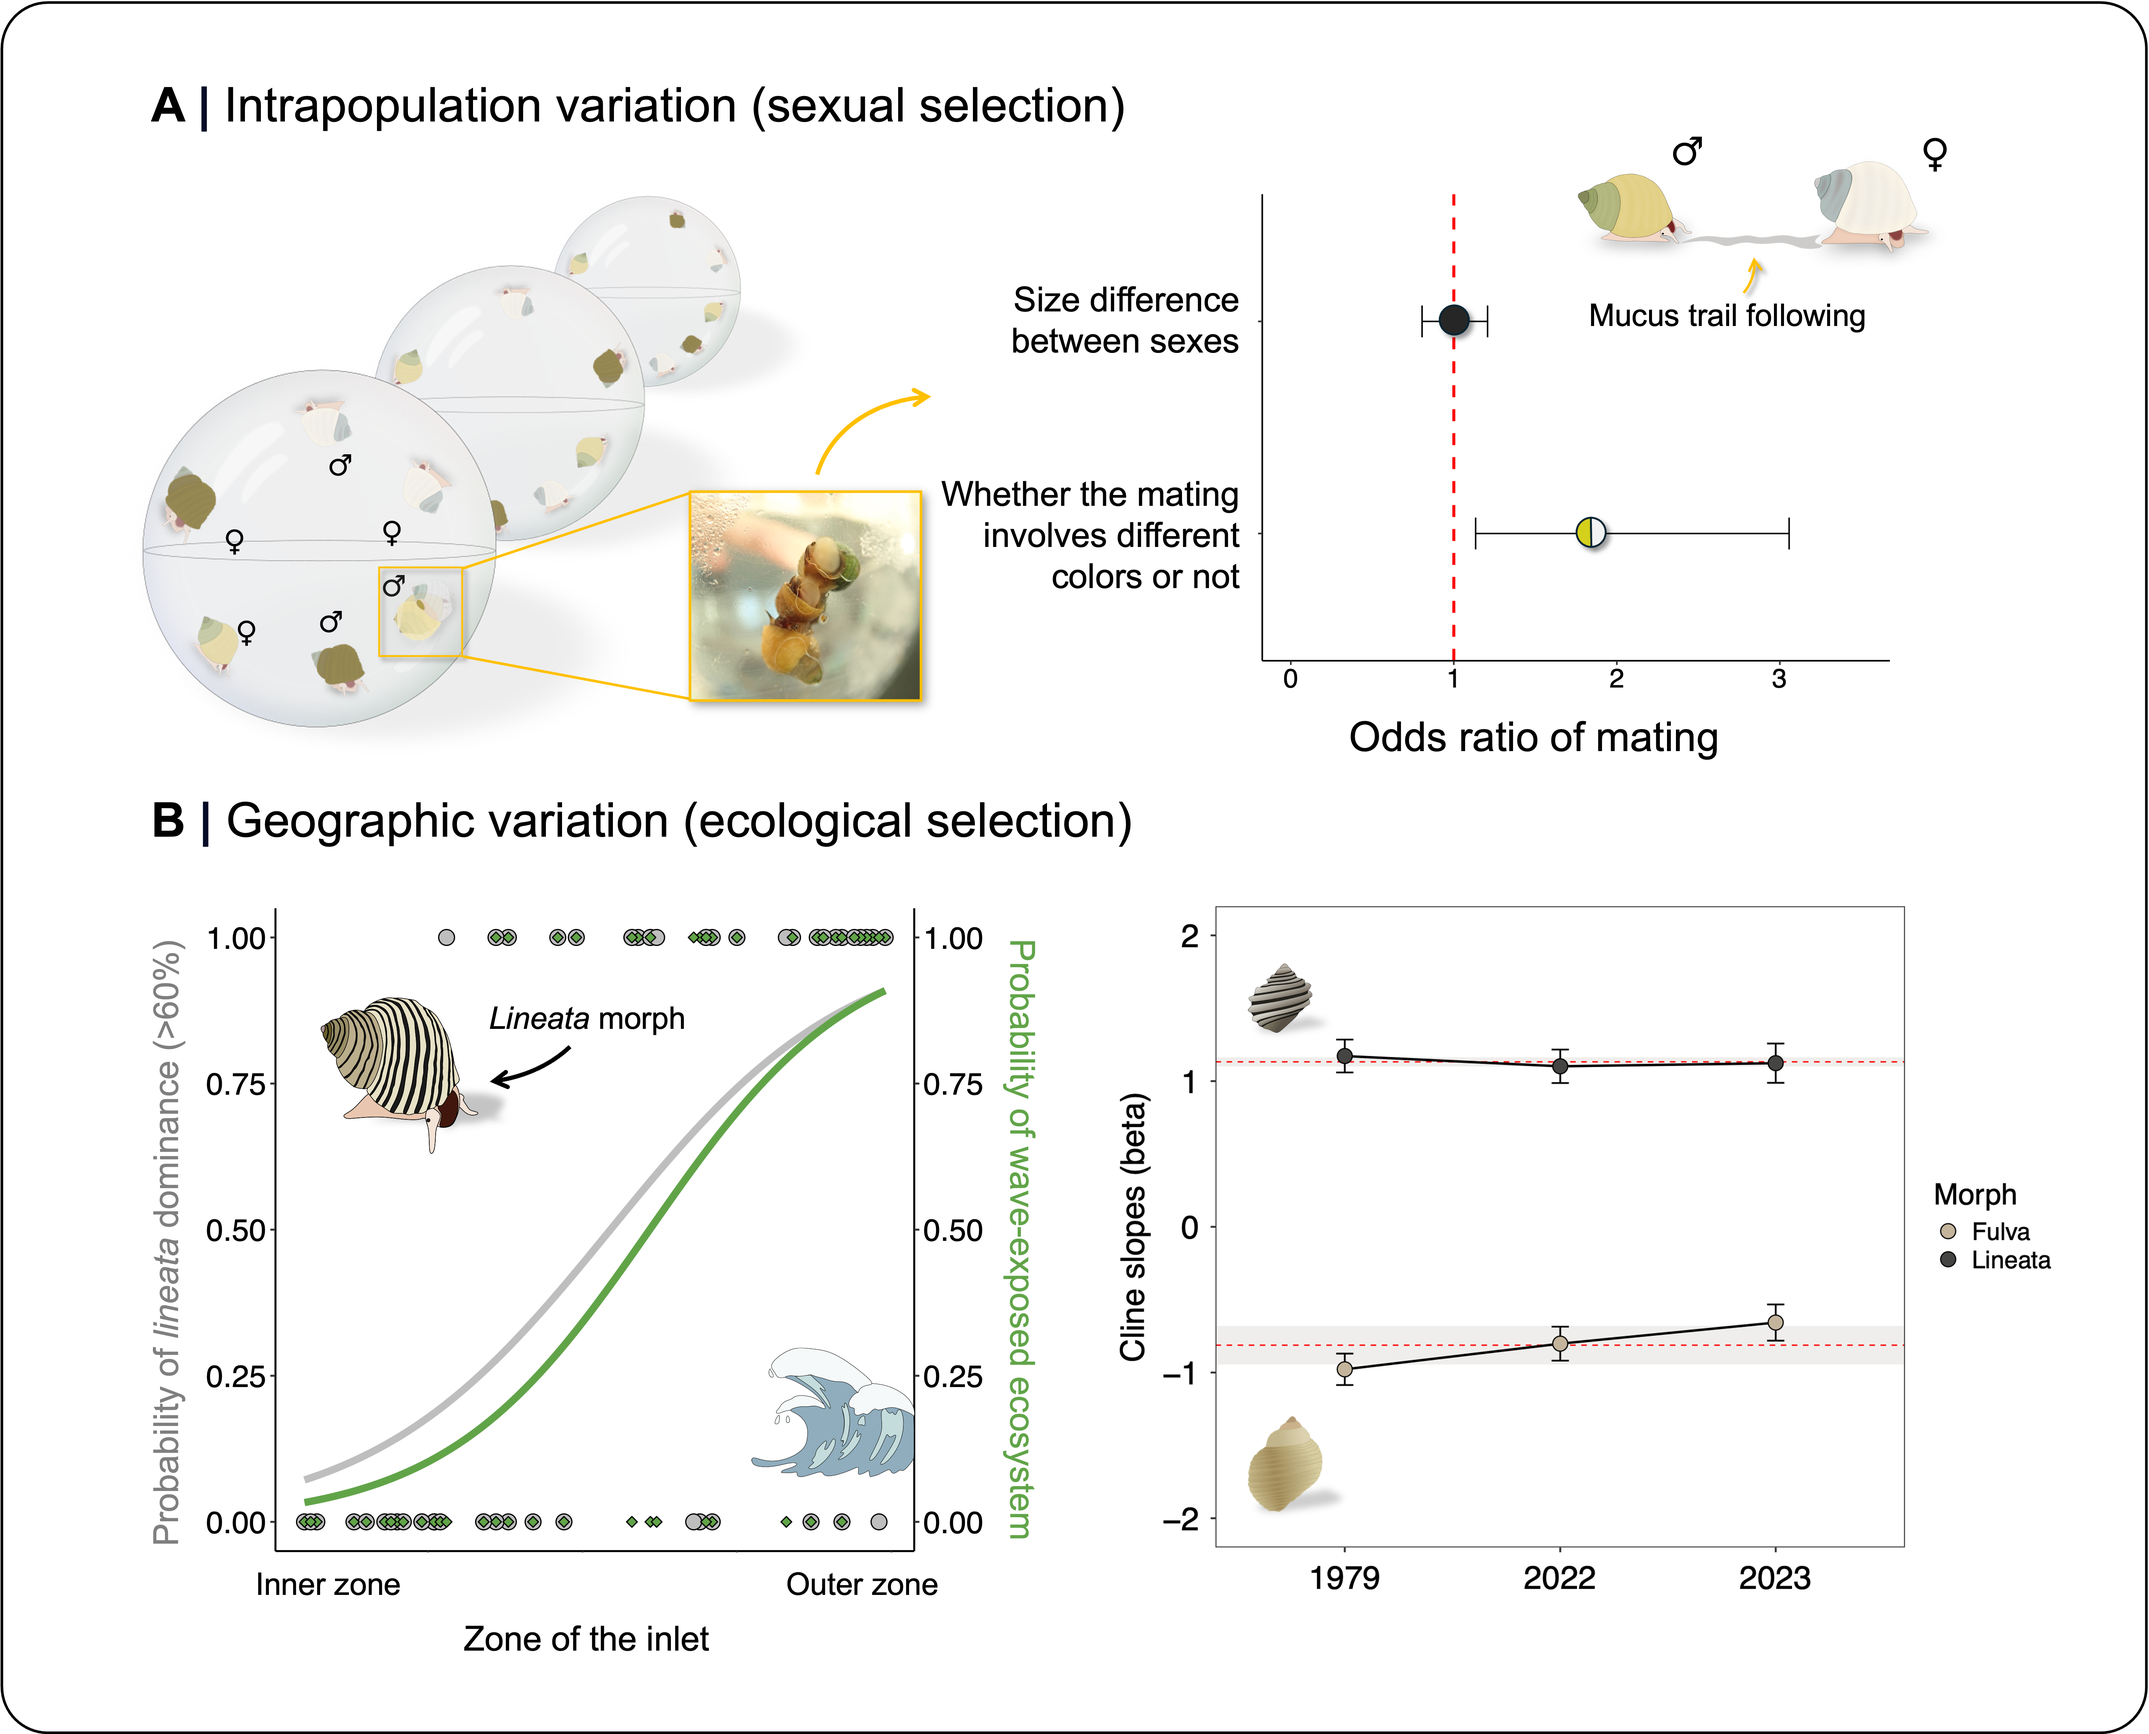
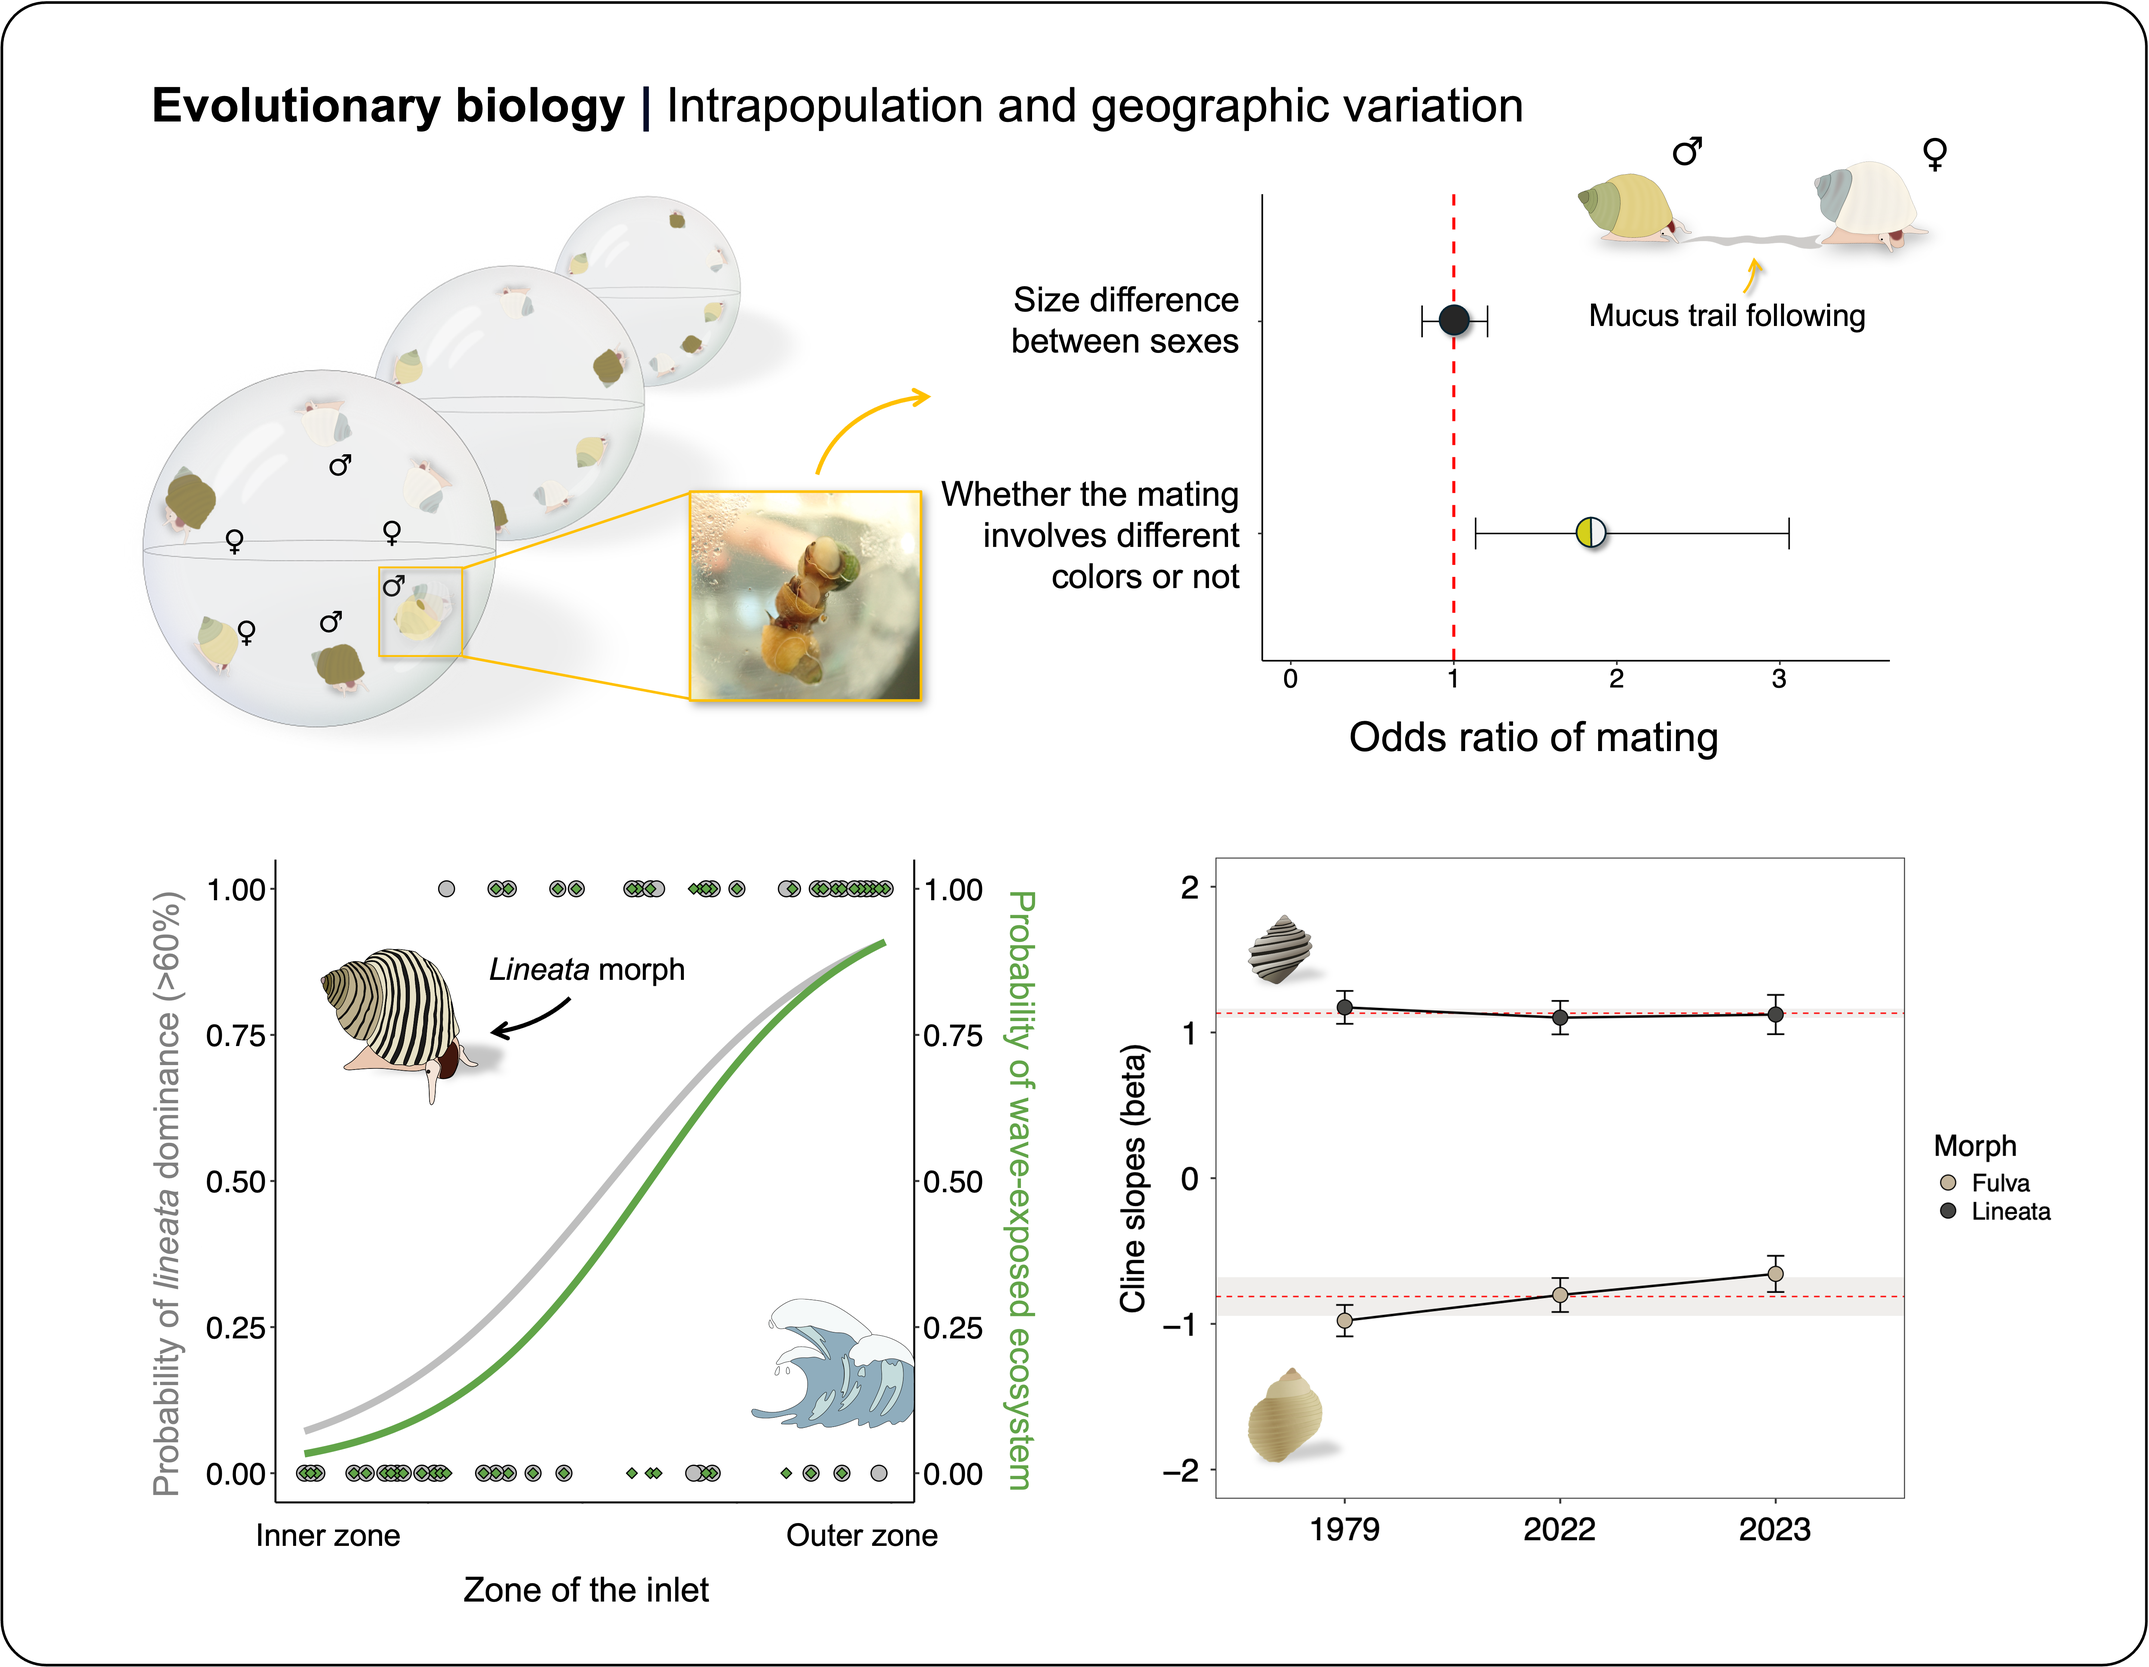
Figures update

diff --git a/research.html b/research.html
@@ -8,13 +8,13 @@
 <div>
 
 <p>Because I love science, I want to understand how it works. This is why I study the history and philosophy of science. More specifically, my work focuses on conceptual issues surrounding evolutionary biology—a particularly salient scientific discipline. Much like biologists study specific organisms to understand how life works, I investigate evolutionary biology to gain insights into how science operates. For this, I use different approaches, but I’m increasingly drawn to computational, bibliometric and empirical methods in philosophy.</p>
-<figure class="research-figure"><a href="assets/2026/10/research-history-philosophy.png" aria-label="Open the full-size figure about the intellectual landscape of the ontogenetic niche concept"><img src="assets/2026/10/research-history-philosophy.png" alt="Network analysis of the intellectual landscape around West and King’s ontogenetic niche concept" loading="lazy"></a><figcaption>Bibliometric data can provide insights into the dynamics of scientific change, including the assimilation of novel ideas from other fields, as in this case from evolutionary biology and ethology.</figcaption></figure>
+<figure class="research-figure"><a href="assets/2026/10/research-history-philosophy.png?v=3" aria-label="Open the full-size figure about the intellectual landscape of the ontogenetic niche concept"><img src="assets/2026/10/research-history-philosophy.png?v=3" alt="Network analysis of the intellectual landscape around West and King’s ontogenetic niche concept" loading="lazy"></a><figcaption>Bibliometric data can provide insights into the dynamics of scientific change, including the assimilation of novel ideas from other fields, as in this case from evolutionary biology and ethology.</figcaption></figure>
 <p>In the last few years, I have mostly worked on scientific disagreement and inter-theory relationships in the context of the EES debate, not only seeking to understand the debate, but also to improve the way it unfolds. During my postdoc at Lund University under the supervision of <a href="https://scholar.google.com/citations?user=EBQp6EMAAAAJ&amp;hl=es">Tobias Uller</a>, I am studying how novel ideas are received in evolutionary biology using computational and bibliometric techniques. Specifically, our main project involves assessing the historical impact of Mary Jane West-Eberhard’s plasticity-first hypothesis on evolutionary discussions. By analyzing how the evolutionary biology community assimilates disruptive ideas we can gain insights into how scientific disciplines change over time.</p>
 </div>
 <h2><strong>Evolutionary biology</strong></h2>
 <p>In addition to the history and philosophy of biology, I also conduct research in evolutionary biology, using ecological, ethological, and genetical insights to understand how natural selection and other evolutionary mechanisms maintain adaptive phenotypic diversity within and across populations. My <a href="assets/2025/01/education_4_phd.pdf">PhD work</a> focused on the maintenance mechanisms of color variation in the marine gastropod <em>L. saxatilis</em>. Currently, I collaborate with <a href="https://scholar.google.com/citations?hl=es&amp;user=4PQ_EJoAAAAJ">Emilio Rolán-Alvarez</a> and <a href="https://scholar.google.com/citations?user=QrOa97sAAAAJ&amp;hl=es">Juan Galindo</a>, my former PhD supervisors at the University of Vigo, in the context of their EVOLPRED project, which is aimed at understanding the predictability of adaptive evolution. Doing research in evolutionary biology does not only allow me to study fascinating natural history questions but also to gain first-hand experience of how science actually works.</p>
-<figure class="research-figure"><a href="assets/2026/10/research-evolutionary-biology.png" aria-label="Open the full-size figure about sexual and ecological selection"><img src="assets/2026/10/research-evolutionary-biology.png" alt="Figures illustrating sexual selection and geographic variation associated with ecological selection in Littorina saxatilis" loading="lazy"></a><figcaption>Ethological experiments and ecological surveys inform about how natural selection maintains adaptive phenotypic variation within and across populations.</figcaption></figure>
+<figure class="research-figure"><a href="assets/2026/10/research-evolutionary-biology.png?v=3" aria-label="Open the full-size figure about sexual and ecological selection"><img src="assets/2026/10/research-evolutionary-biology.png?v=3" alt="Figures illustrating sexual selection and geographic variation associated with ecological selection in Littorina saxatilis" loading="lazy"></a><figcaption>Ethological experiments and ecological surveys inform about how natural selection maintains adaptive phenotypic variation within and across populations.</figcaption></figure>
 <h2><strong>Science education</strong></h2>
 <p>Finally, from time to time I participate in research on science education, also in close collaboration with Emilio Rolán-Alvarez. Research in science education does not only contribute to designing more effective scientific literacy policies, but it can also inform us about people’s folk philosophy of science.</p>
-<figure class="research-figure"><a href="assets/2026/10/research-science-education.png?v=2" aria-label="Open the full-size figure about students’ knowledge and acceptance of evolutionary theory"><img src="assets/2026/10/research-science-education.png?v=2" alt="Graphs showing how students’ knowledge of evolutionary theory relates to acceptance of evolution, and how acceptance relates to religiosity" loading="lazy"></a><figcaption>Socio-demographic and educational factors help us understand students' ideas about science.</figcaption></figure>
+<figure class="research-figure"><a href="assets/2026/10/research-science-education.png?v=3" aria-label="Open the full-size figure about students’ knowledge and acceptance of evolutionary theory"><img src="assets/2026/10/research-science-education.png?v=3" alt="Graphs showing how students’ knowledge of evolutionary theory relates to acceptance of evolution, and how acceptance relates to religiosity" loading="lazy"></a><figcaption>Socio-demographic and educational factors help us understand students' ideas about science.</figcaption></figure>
 </div></main><footer class="site-footer"><span class="footer-copyright">© 2026 Juan Gefaell</span><span class="footer-figure" aria-hidden="true"></span><span class="footer-location">Lund, Sweden</span></footer></body></html>
